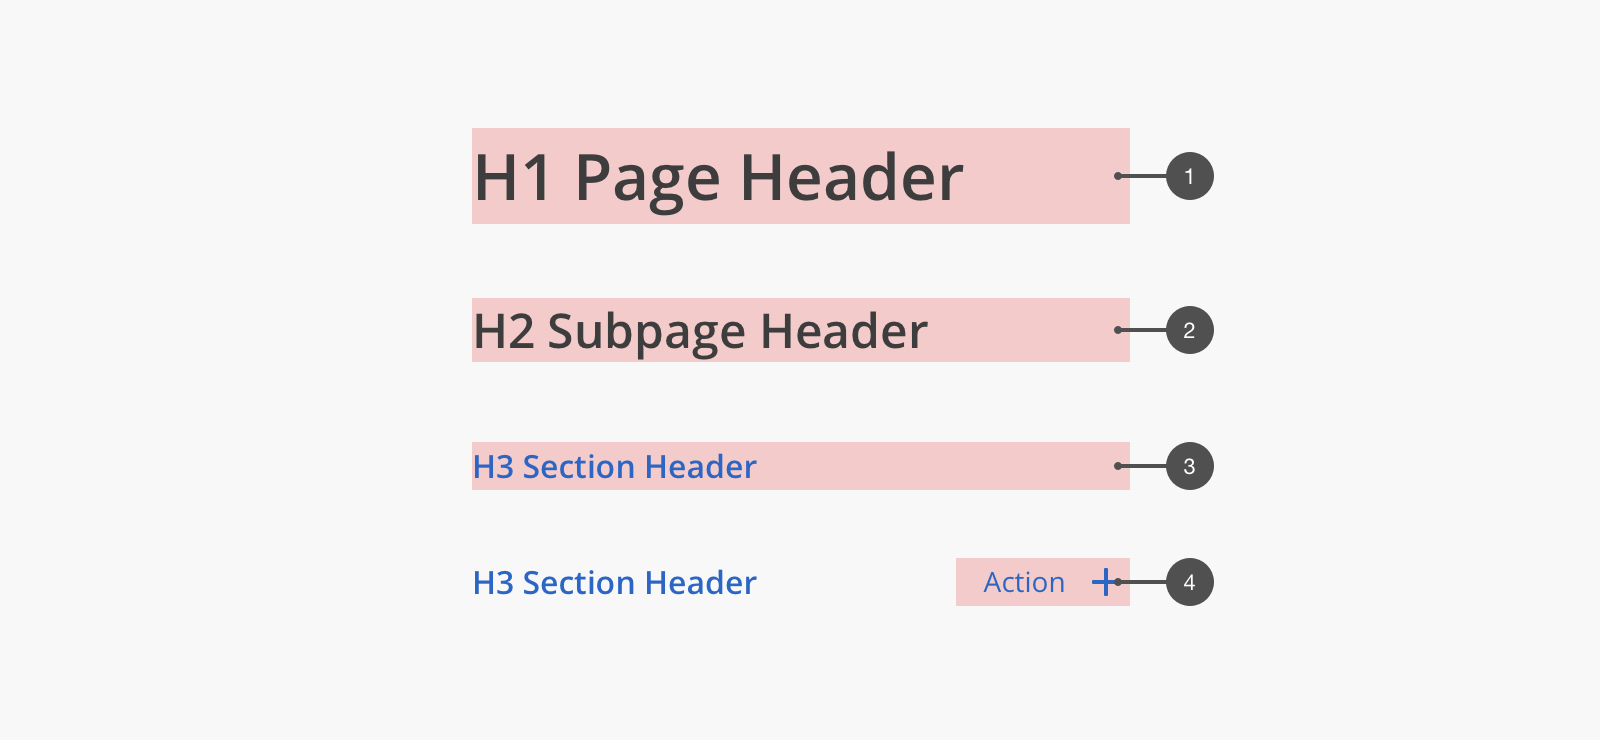
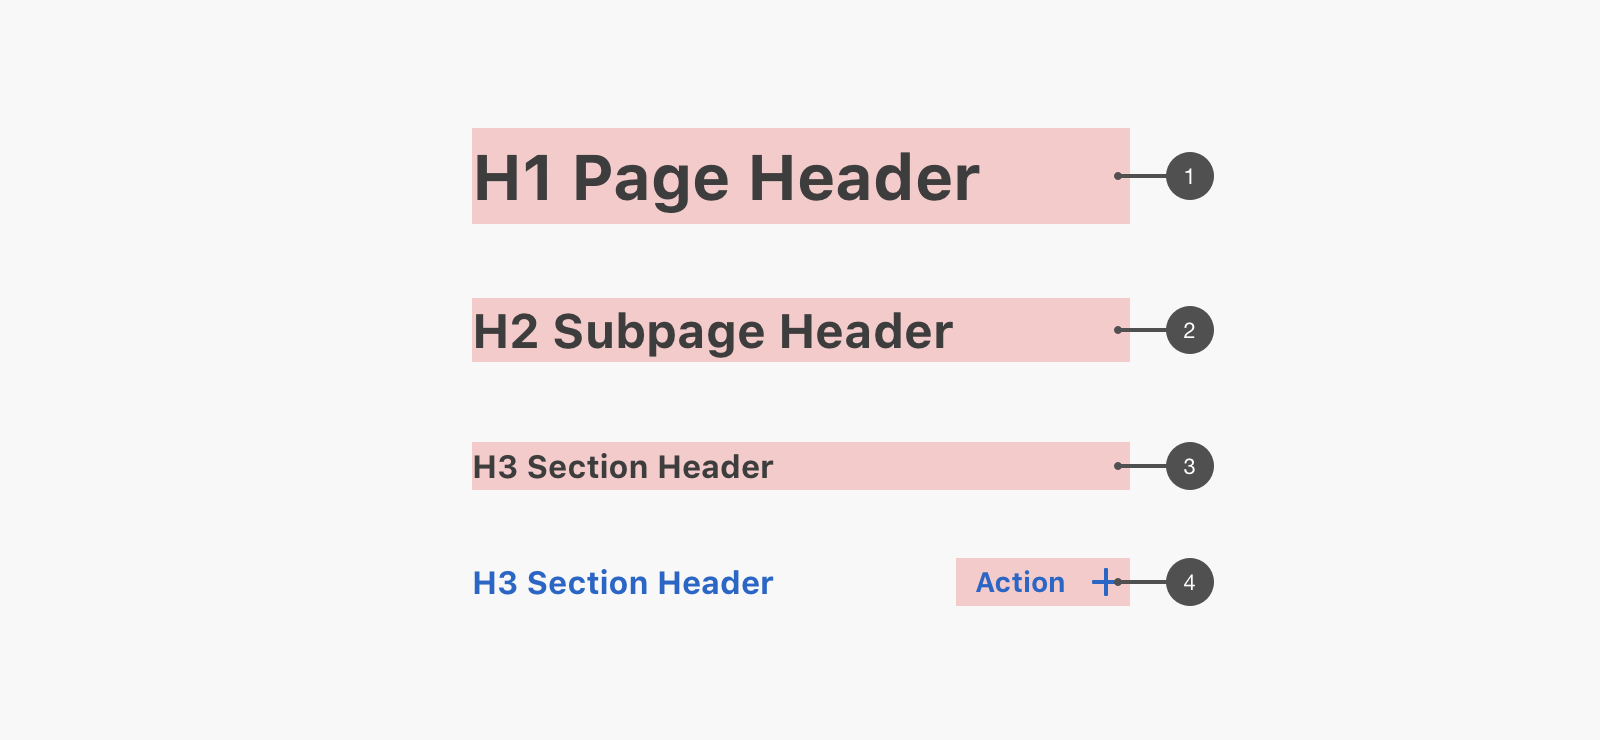
style: update typograhpy images

diff --git a/docs/pages/foundations/typography.vue b/docs/pages/foundations/typography.vue
@@ -15,7 +15,7 @@ You can download fonts at <a href="https://fonts.google.com/specimen/Open+Sans">
 | **H1 Page header**<br/>Without actionbar, the page header can be used in the workspace. | font-size: `32px`;<br/>font-weight: `600`;<br/>color: `$darkgray-500`; | line-height: `48px`;                                                    |
 | **H2 Subpage Header**<br/>Used for second level header, or main title in action bar.    | font-size: `24px`;<br/>font-weight: `600`;<br/>color: `$darkgray-500`; | line-height: `32px`;<br/>margin-top: `16px`;                            |
 | **H3 Section Header**<br/>Used to divide each section.                                  | font-size: `16px`;<br/>font-weight: `600`;<br/>color: `$primary-500`;  | line-height: `24px`;<br/>margin-top: `16px`;<br/>padding-bottom: `8px`; |
-| **H3 Section Header with actions**<br/>Text button for actions.                         | —                                                                      |—                                                                       |
+| **H3 Section Header with actions**<br/>Text button for actions.                         | —                                                                      | —                                                                       |
 
 
 <div class="element-example">
@@ -25,6 +25,16 @@ You can download fonts at <a href="https://fonts.google.com/specimen/Open+Sans">
 <h3>H3 Section Header
 	<span>Actions<i class="yoco">plus</i></span>
 </h3>
+</div>
+
+
+<div class="mb-8px">
+<KtBanner
+	message="Using Header Component for H3"
+	icon="circle_attention"
+	actionText="View"
+	@click="$router.push('/components/headings')"
+/>
 </div>
 
 ```html
@@ -99,7 +109,7 @@ You can download fonts at <a href="https://fonts.google.com/specimen/Open+Sans">
 | Element                                               | Basic Properties                               | UI Properties          |
 |:------------------------------------------------------|:-----------------------------------------------|:-----------------------|
 | **Paragraph Text**<br/>Used for long form text.       | font-size: `14px`;<br/>color: `$darkgray-300`; | line-height: `21px`;   |
-| **Pargraph Margin**<br/>Margin between two paragraphs | —                                             | margin-bottom: `16px`; |
+| **Pargraph Margin**<br/>Margin between two paragraphs | —                                              | margin-bottom: `16px`; |
 
 <div class="element-example">
 	<p>
